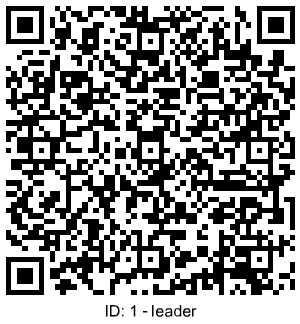
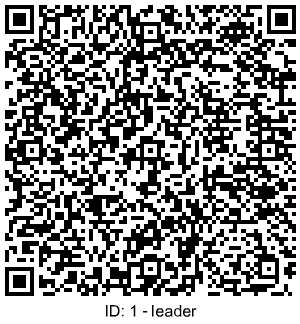
db execution issue fixed

diff --git a/wicebd-server/generateQRCodes.js b/wicebd-server/generateQRCodes.js
@@ -44,11 +44,14 @@ async function generateAllQRCodes() {
 
 async function generateQR(registrationId, memberType) {
   const token = uuidv4();
-  const qrContent = JSON.stringify({
-    registrationId,
-    memberType,
-    token
-  });
+  const qrPayload = {
+  registrationId,
+  memberType,
+  token
+};
+
+const qrContent = `https://www.wicebd.com/admin/qr-code?data=${encodeURIComponent(JSON.stringify(qrPayload))}`;
+
 
   try {
     // Save to DB

diff --git a/wicebd-server/db.js b/wicebd-server/db.js
@@ -25,5 +25,6 @@ testDatabaseConnection();
 module.exports = {
   getConnection: () => pool.getConnection(),
   query: (...args) => pool.query(...args),
+  execute: (...args) => pool.execute(...args),
   end: () => pool.end()
 };
